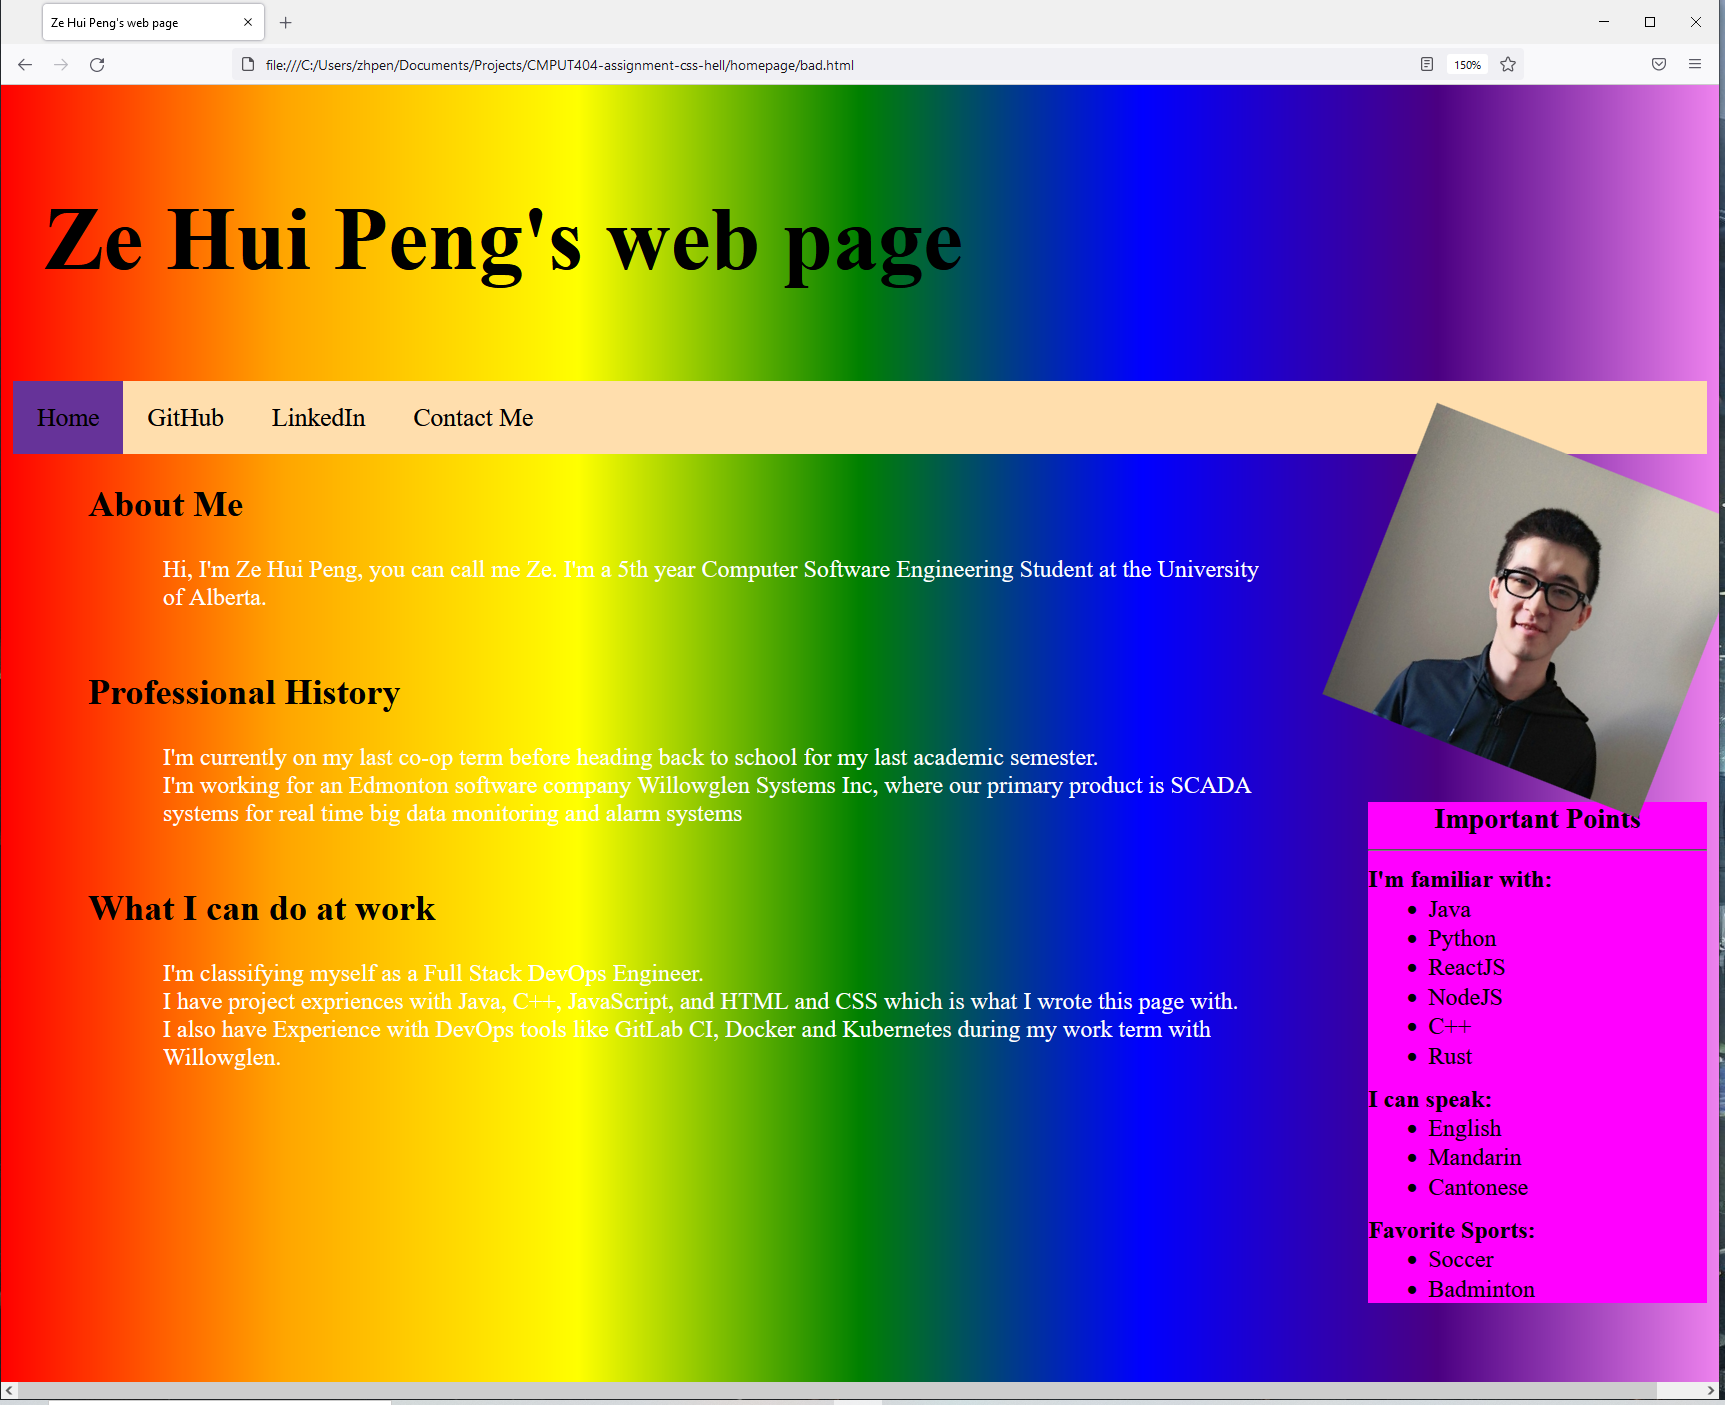
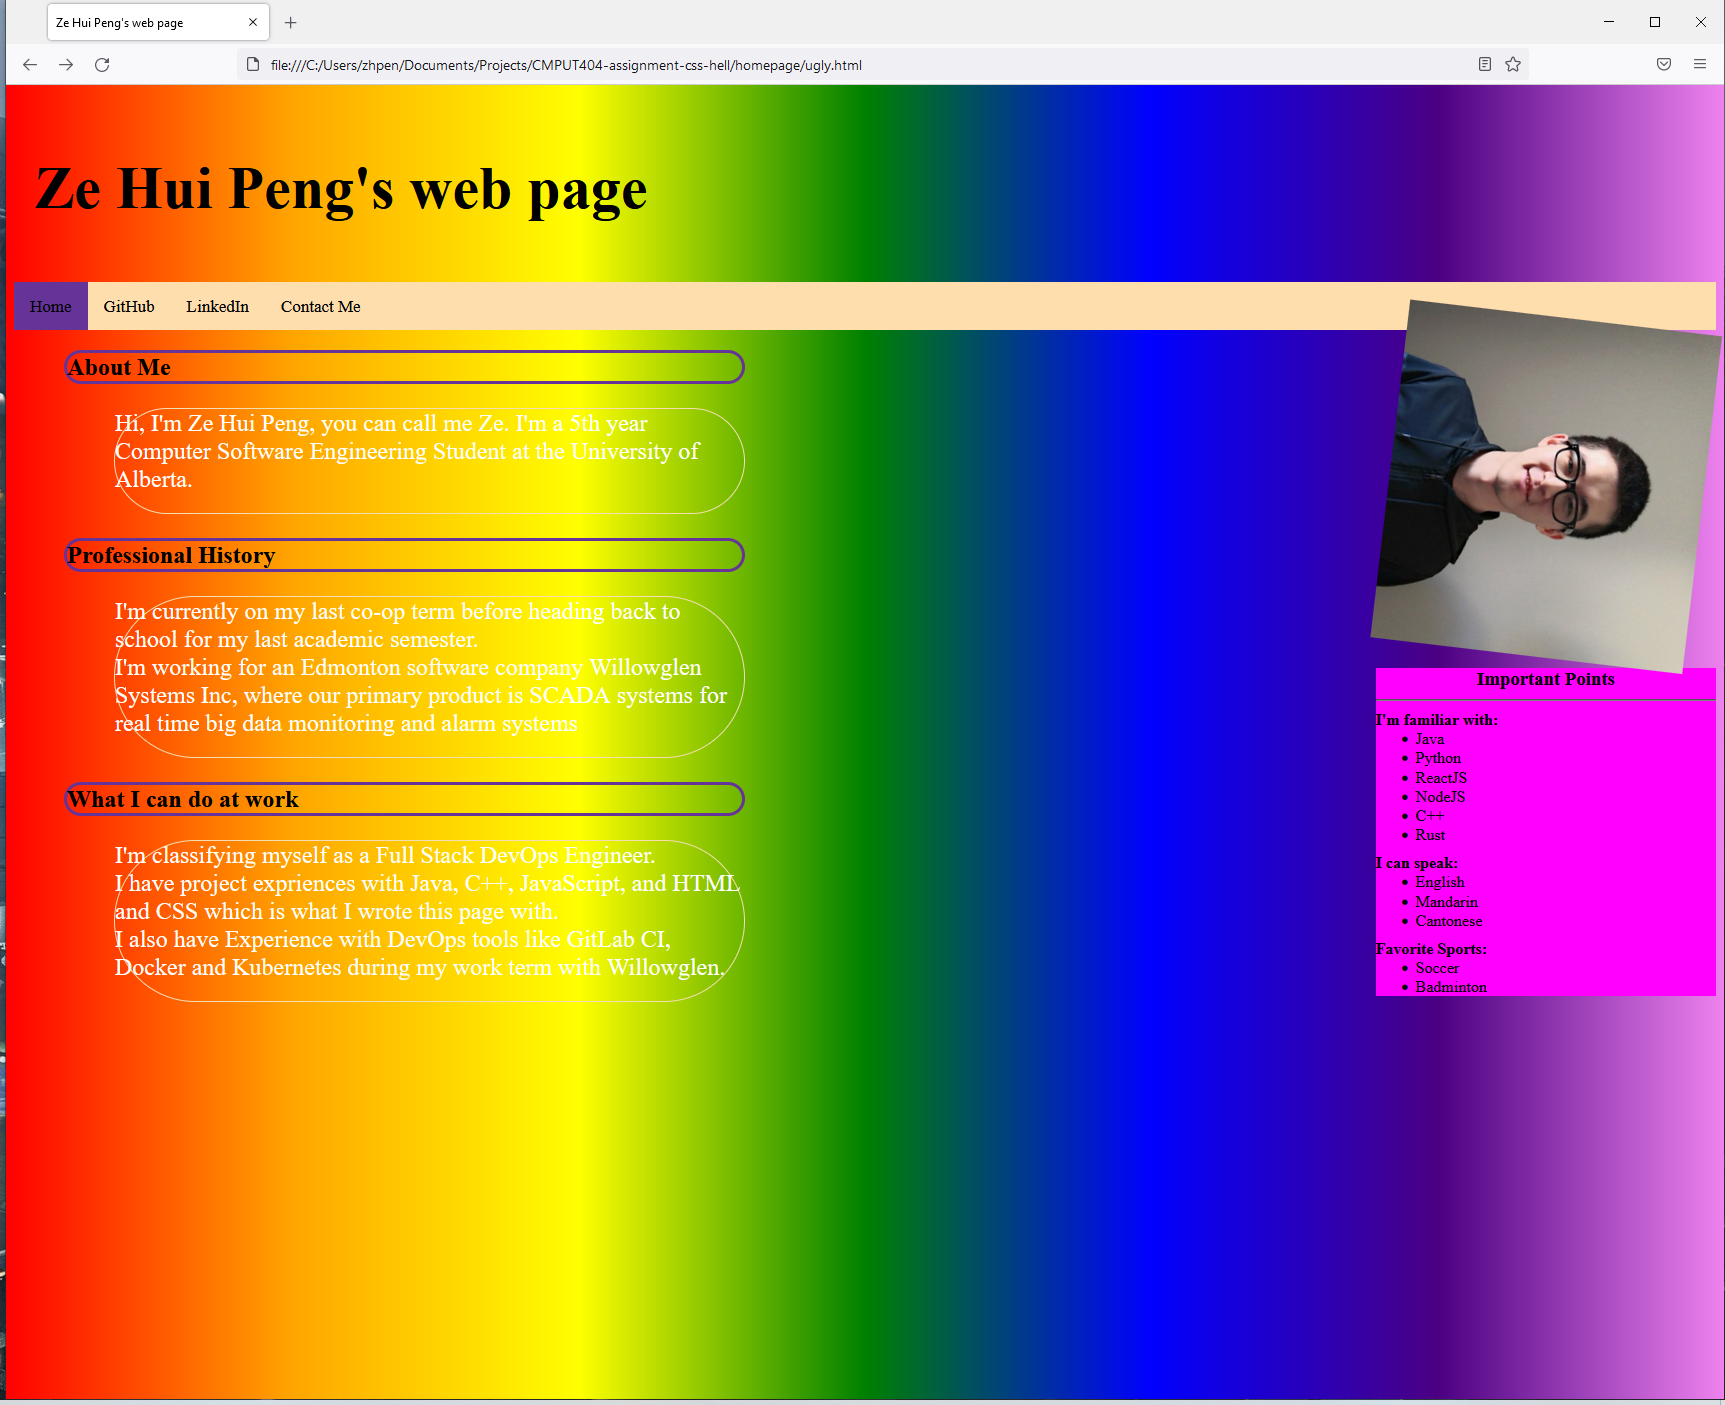
make ugly page more ugly

Changed region(s): [[0.0, 0.0, 1.0, 1.0], [0.1536, 0.0306, 0.4916, 0.0612], [0.8603, 0.0306, 0.891, 0.0612]]

diff --git a/homepage/ugly.css b/homepage/ugly.css
@@ -26,7 +26,15 @@ body {
     padding-left: 50px;
 }
 
+h2 {
+    border-radius: 5em;
+    border: 3px solid rebeccapurple;
+}
+
 p {
+    border-radius: 10em;
+    border: 1px solid wheat;
+    font-size: 150%;
     margin-left: 50px;
     padding-bottom: 20px;
     color: white;
